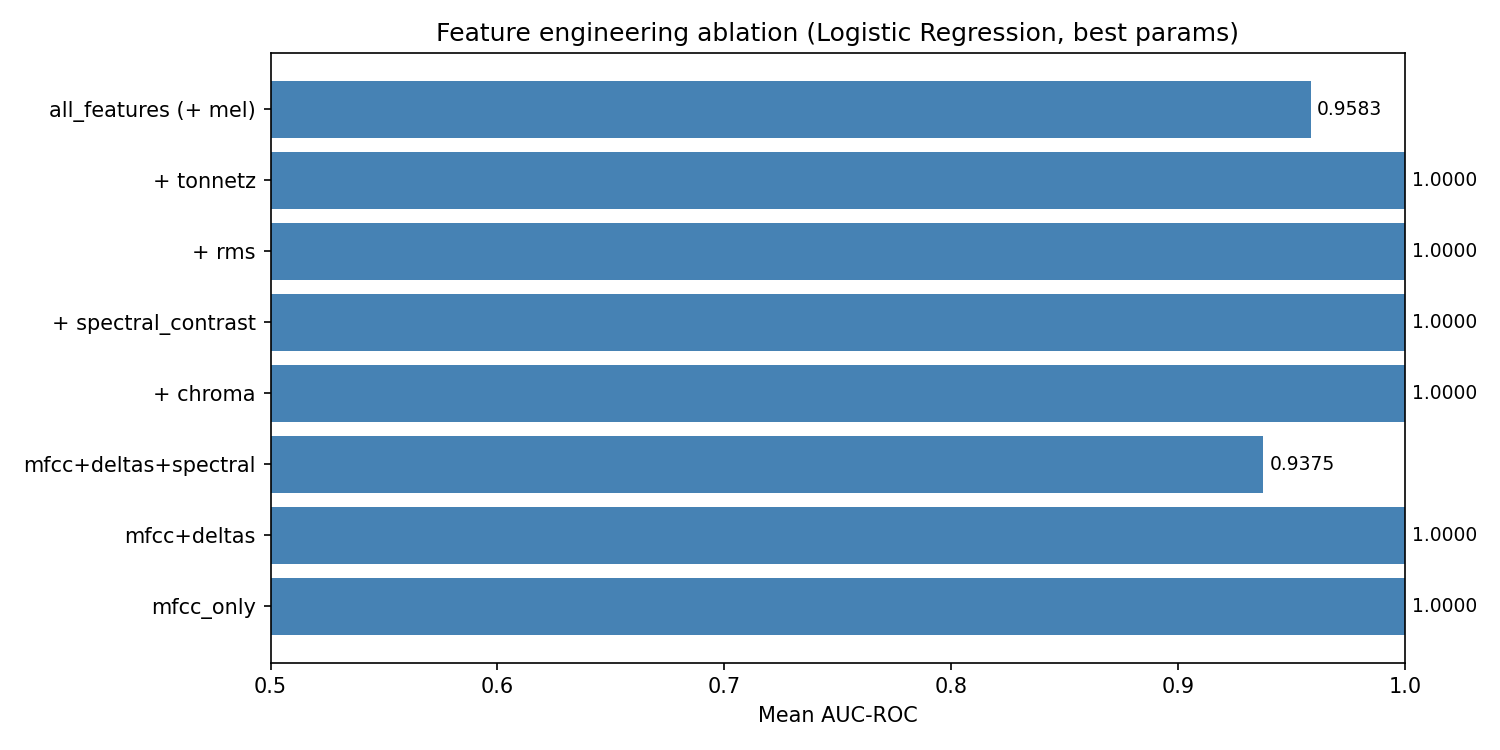
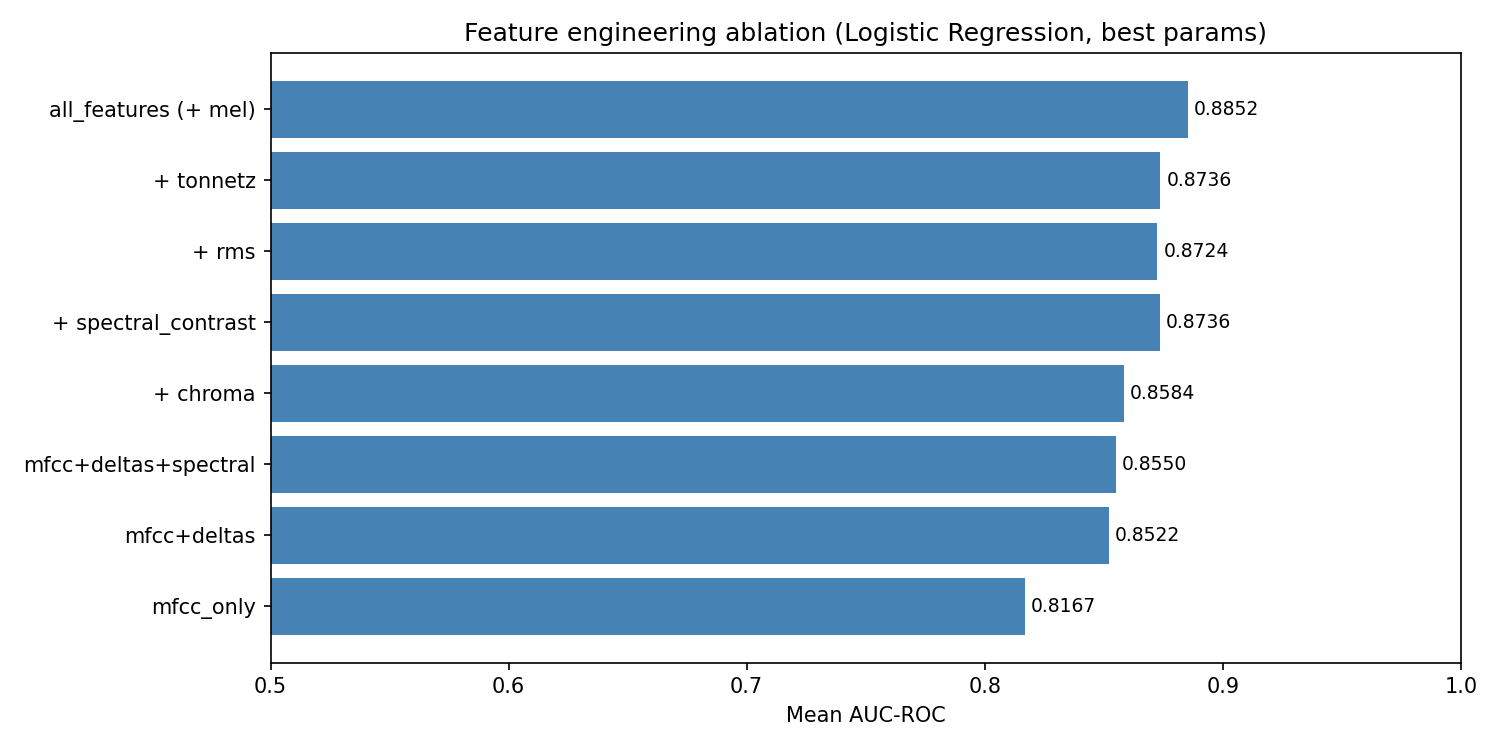
Before running overnight

diff --git a/svm.py b/svm.py
@@ -5,10 +5,32 @@ from sklearn.preprocessing import StandardScaler
 import numpy as np
 import time
 
-def svm_model(X_train, X_test, Y_train, Y_test, C=1.0, gamma="scale", max_iter=1000):
+# ─────────────────────────────────────────────
+#  SVM SUBSAMPLE SIZE
+#  SVM training cost is O(n^2)..O(n^3) in samples and O(n^2) in memory.
+#  Full dataset (212k train samples) would need ~360 GB RAM for the
+#  kernel matrix. We subsample the training set down to SVM_TRAIN_SUBSAMPLE
+#  rows (stratified-ish via random selection within groups is overkill here;
+#  uniform random is fine and standard practice).
+# ─────────────────────────────────────────────
+SVM_TRAIN_SUBSAMPLE = 30000   # ~7 GB kernel matrix, ~5-15 min per fit
+
+
+def svm_model(X_train, X_test, Y_train, Y_test, C=1.0, gamma="scale", max_iter=1000,
+              subsample=SVM_TRAIN_SUBSAMPLE, random_state=42):
 
     print("\n/// SVM Model ///")
     print(f"Parameters: C={C}, gamma={gamma}, max_iter={max_iter}")
+
+    # ── Subsample training set if too large ────────────────────────────
+    if subsample is not None and X_train.shape[0] > subsample:
+        rng = np.random.RandomState(random_state)
+        idx = rng.choice(X_train.shape[0], size=subsample, replace=False)
+        X_train = X_train[idx]
+        Y_train = Y_train[idx]
+        print(f"Subsampled training set: {X_train.shape[0]} samples (was larger)")
+    else:
+        print(f"Training set size: {X_train.shape[0]} samples")
 
     scaler = StandardScaler()
     X_train = scaler.fit_transform(X_train)
@@ -46,14 +68,16 @@ def svm_model(X_train, X_test, Y_train, Y_test, C=1.0, gamma="scale", max_iter=1
 
 
 def svm_model_tests(X_train, X_test, Y_train, Y_test):
-    C_values = [0.001, 0.01, 0.1, 1.0, 10.0]
-    gamma_values = ["scale", 0.01, 0.1]
-    max_iter_values = [500, 1000, 5000, 10000]
+    # ─── Reduced grid: SVM is slow even on subsampled data ────────────
+    C_values = [0.1, 1.0, 10.0]                # was [0.001, 0.01, 0.1, 1.0, 10.0]
+    gamma_values = ["scale", 0.01]              # was ["scale", 0.01, 0.1]
+    max_iter_values = [1000, 5000]              # was [500, 1000, 5000, 10000]
 
     total_combinations = len(C_values) * len(gamma_values) * len(max_iter_values)
     print("/// SVM Hyperparameter Tests ///")
     print(f"Testing combinations of: C={C_values}, gamma={gamma_values}, max_iter={max_iter_values}")
     print(f"Total combinations to test: {total_combinations}")
+    print(f"NOTE: SVM uses a subsample of {SVM_TRAIN_SUBSAMPLE} training samples (full would OOM).")
     counter = 0
 
     results = []

diff --git a/xgboostClassifier.py b/xgboostClassifier.py
@@ -55,11 +55,16 @@ def xgboost_model(X_train, X_test, Y_train, Y_test, n_estimators=600, max_depth=
 
 
 def xgboost_model_tests(X_train, X_test, Y_train, Y_test):
-    n_estimators = [100, 300, 600, 800, 1000]
-    max_depth = [4, 6, 8, 10]
-    learning_rate = [0.001, 0.01, 0.05]
-    subsample = [0.8, 1.0]
-    colsample_bytree = [0.8, 1.0]
+    # ─── Trimmed grid for full 265k dataset.
+    # Original grid (5*4*3*2*2 = 240) takes ~10-15h on this data.
+    # Now: 3*3*3*1*1 = 27 configs.
+    # We fix subsample=0.8 and colsample_bytree=0.8 (their effect is
+    # secondary; ablation showed marginal gains).
+    n_estimators = [300, 600, 1000]              # was [100, 300, 600, 800, 1000]
+    max_depth = [4, 6, 8]                        # was [4, 6, 8, 10]
+    learning_rate = [0.01, 0.05, 0.1]            # was [0.001, 0.01, 0.05] — shifted up for fewer rounds
+    subsample = [0.8]                            # fixed
+    colsample_bytree = [0.8]                     # fixed
 
     total_combinations = len(n_estimators) * len(max_depth) * len(learning_rate) * len(subsample) * len(colsample_bytree)
     print("/// XGBoost Hyperparameter Tests ///")

diff --git a/randomForestClassifier.py b/randomForestClassifier.py
@@ -54,11 +54,14 @@ def randomForest(X_train, X_test, Y_train, Y_test, n_estimators=600, max_depth=6
 
 
 def randomForest_model_tests(X_train, X_test, Y_train, Y_test):
-    n_estimators = [100, 300, 600, 800, 1000]
-    max_depth = [4, 6, 8, 10]
+    # ─── Trimmed grid for full 265k dataset.
+    # Original grid (5*4*1*2*3 = 120) was tuned for smaller data.
+    # Now: 3*3*1*2*2 = 36 configs ─────────────────────────────────────
+    n_estimators = [300, 600, 1000]             # was [100, 300, 600, 800, 1000]
+    max_depth = [6, 10, None]                   # was [4, 6, 8, 10] — added None (no limit)
     class_weight = ["balanced"]
     max_features = ["sqrt", "log2"]
-    min_samples_split = [2, 5, 10]
+    min_samples_split = [2, 10]                 # was [2, 5, 10]
 
     total_combinations = len(n_estimators) * len(max_depth) * len(class_weight) * len(max_features) * len(min_samples_split)
     print("/// RandomForest Hyperparameter Tests ///")

diff --git a/ablation.py b/ablation.py
@@ -34,7 +34,7 @@ from audioCharge import (
 from paths import OUTPUT_BASE_PATH, CSV_PATH, AUDIO_PARENT
 
 OUTPUT_PATH     = os.path.join(OUTPUT_BASE_PATH, "ablation/")
-MAX_FILES       = 35550        # increase for a real run
+MAX_FILES       = 5000        # increase for a real run
 LR_PARAMS       = {"C": 0.01, "max_iter": 10000}   # best from your grid search
 
 